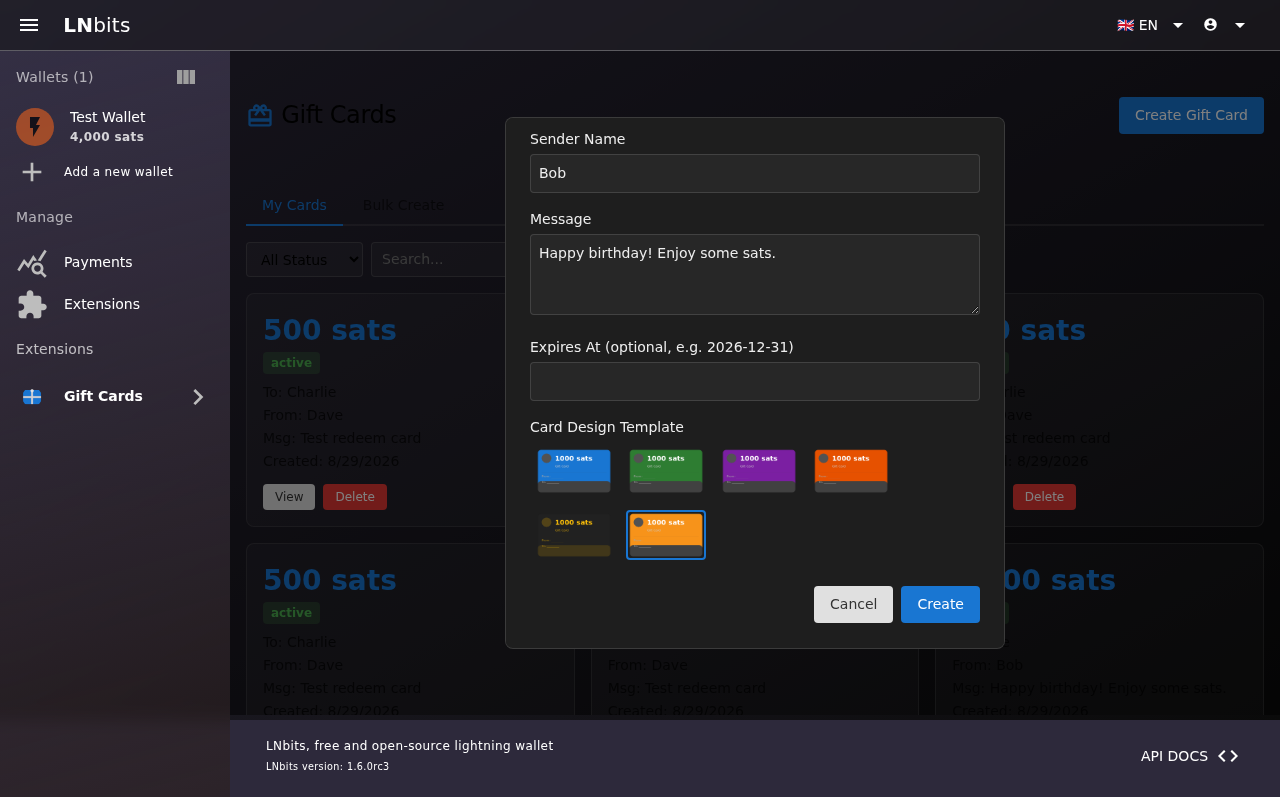
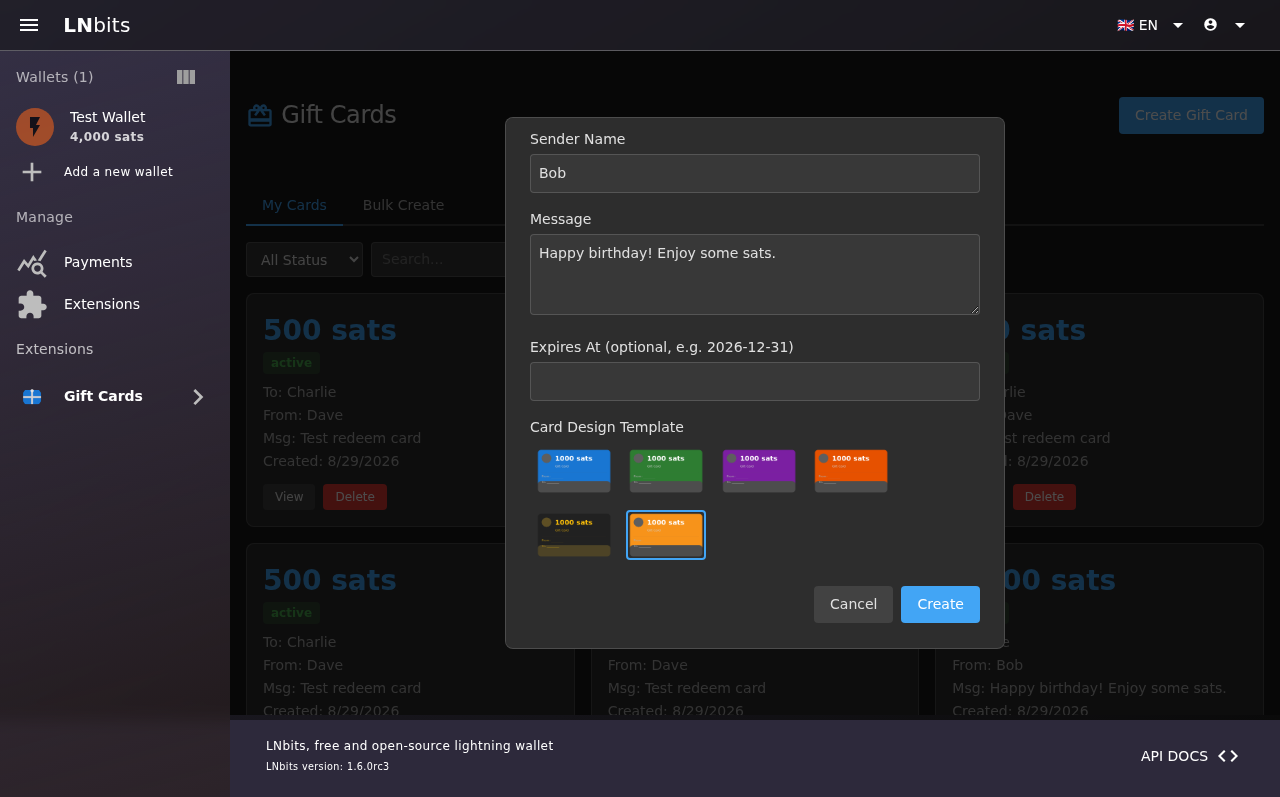
Fix dark mode text colors using CSS variables + prefers-color-scheme
The iframe is sandboxed (no allow-same-origin) so it cannot inherit
the parent LNbits page's theme. Use CSS custom properties with
@media (prefers-color-scheme: dark) to adapt text, backgrounds,
borders, and inputs to the browser's color scheme. Also set
color-scheme: light dark on body so form controls match.

Updated playwright config to run with colorScheme: 'dark' to verify
dark mode rendering. All 6 tests pass in dark mode.

Generated with [Devin](https://devin.ai)

diff --git a/static/css/index.css b/static/css/index.css
@@ -1,53 +1,79 @@
 /* Gift Cards Admin UI */
 .hidden { display: none !important; }
 * { margin: 0; padding: 0; box-sizing: border-box; }
-body { font-family: 'Roboto', sans-serif; background: transparent; color: inherit; }
+:root {
+  --gc-text: #1a1a1a;
+  --gc-text-muted: #555;
+  --gc-bg: #f5f5f5;
+  --gc-surface: #ffffff;
+  --gc-border: rgba(0,0,0,0.12);
+  --gc-input-bg: #fff;
+  --gc-overlay: rgba(0,0,0,0.5);
+  --gc-accent: #1976d2;
+  --gc-btn-bg: #e0e0e0;
+  --gc-btn-text: #333;
+}
+@media (prefers-color-scheme: dark) {
+  :root {
+    --gc-text: #e0e0e0;
+    --gc-text-muted: #aaa;
+    --gc-bg: #1a1a1a;
+    --gc-surface: #2d2d2d;
+    --gc-border: rgba(255,255,255,0.15);
+    --gc-input-bg: #383838;
+    --gc-overlay: rgba(0,0,0,0.7);
+    --gc-accent: #42a5f5;
+    --gc-btn-bg: #424242;
+    --gc-btn-text: #e0e0e0;
+  }
+}
+body { font-family: 'Roboto', sans-serif; background: var(--gc-bg); color: var(--gc-text); color-scheme: light dark; }
 .page { padding: 16px; max-width: 1200px; margin: 0 auto; }
 .header { display: flex; justify-content: space-between; align-items: center; margin-bottom: 24px; }
-.header h1 { font-size: 24px; }
-.header h1 .icon { vertical-align: middle; font-size: 28px; color: #1976d2; }
-.btn { display: inline-block; padding: 8px 16px; border: none; border-radius: 4px; cursor: pointer; font-size: 14px; background: #e0e0e0; color: #333; text-decoration: none; }
-.btn-primary { background: #1976d2; color: #fff; }
+.header h1 { font-size: 24px; color: var(--gc-text); }
+.header h1 .icon { vertical-align: middle; font-size: 28px; color: var(--gc-accent); }
+.btn { display: inline-block; padding: 8px 16px; border: none; border-radius: 4px; cursor: pointer; font-size: 14px; background: var(--gc-btn-bg); color: var(--gc-btn-text); text-decoration: none; }
+.btn-primary { background: var(--gc-accent); color: #fff; }
 .btn-danger { background: #e53935; color: #fff; }
 .btn-success { background: #4caf50; color: #fff; }
 .btn-sm { padding: 4px 12px; font-size: 12px; }
 .btn:disabled { opacity: 0.5; cursor: not-allowed; }
 .card-list { display: grid; grid-template-columns: repeat(auto-fill, minmax(320px, 1fr)); gap: 16px; }
-.gift-card { background: rgba(128,128,128,0.08); border: 1px solid rgba(128,128,128,0.2); border-radius: 8px; padding: 16px; }
-.gift-card .amount { font-size: 28px; font-weight: bold; color: #1976d2; }
+.gift-card { background: var(--gc-surface); border: 1px solid var(--gc-border); border-radius: 8px; padding: 16px; }
+.gift-card .amount { font-size: 28px; font-weight: bold; color: var(--gc-accent); }
 .gift-card .status { display: inline-block; padding: 2px 8px; border-radius: 4px; font-size: 12px; font-weight: bold; }
 .status-active { background: rgba(76,175,80,0.2); color: #4caf50; }
 .status-redeemed { background: rgba(33,150,243,0.2); color: #2196f3; }
 .status-expired { background: rgba(244,67,54,0.2); color: #f44336; }
 .status-redeeming { background: rgba(255,152,0,0.2); color: #ff9800; }
-.gift-card .meta { opacity: 0.7; font-size: 14px; margin-top: 8px; }
+.gift-card .meta { color: var(--gc-text-muted); font-size: 14px; margin-top: 8px; }
 .gift-card .meta div { margin-top: 2px; }
 .gift-card .actions { margin-top: 12px; display: flex; gap: 8px; }
-.dialog-overlay { position: fixed; top: 0; left: 0; right: 0; bottom: 0; background: rgba(0,0,0,0.5); display: flex; align-items: center; justify-content: center; z-index: 1000; }
-.dialog { background: #1e1e1e; color: #eee; border: 1px solid rgba(128,128,128,0.3); border-radius: 8px; padding: 24px; max-width: 500px; width: 90%; max-height: 80vh; overflow-y: auto; }
-.dialog h2 { margin-top: 0; margin-bottom: 16px; }
+.dialog-overlay { position: fixed; top: 0; left: 0; right: 0; bottom: 0; background: var(--gc-overlay); display: flex; align-items: center; justify-content: center; z-index: 1000; }
+.dialog { background: var(--gc-surface); color: var(--gc-text); border: 1px solid var(--gc-border); border-radius: 8px; padding: 24px; max-width: 500px; width: 90%; max-height: 80vh; overflow-y: auto; }
+.dialog h2 { margin-top: 0; margin-bottom: 16px; color: var(--gc-text); }
 .form-group { margin-bottom: 16px; }
-.form-group label { display: block; margin-bottom: 4px; font-weight: 500; }
-.form-group input, .form-group textarea, .form-group select { width: 100%; padding: 8px; border: 1px solid rgba(128,128,128,0.3); border-radius: 4px; font-size: 14px; background: rgba(128,128,128,0.1); color: inherit; }
-.form-group input:focus, .form-group textarea:focus { border-color: #1976d2; outline: none; }
+.form-group label { display: block; margin-bottom: 4px; font-weight: 500; color: var(--gc-text); }
+.form-group input, .form-group textarea, .form-group select { width: 100%; padding: 8px; border: 1px solid var(--gc-border); border-radius: 4px; font-size: 14px; background: var(--gc-input-bg); color: var(--gc-text); }
+.form-group input:focus, .form-group textarea:focus { border-color: var(--gc-accent); outline: none; }
 .dialog-actions { display: flex; gap: 8px; justify-content: flex-end; }
 .qr-container { text-align: center; margin: 16px 0; }
 .qr-container canvas { max-width: 100%; }
-.empty-state { text-align: center; padding: 48px; opacity: 0.5; }
+.empty-state { text-align: center; padding: 48px; color: var(--gc-text-muted); }
 .empty-state .material-icons { font-size: 64px; margin-bottom: 16px; }
-.tabs { display: flex; gap: 4px; margin-bottom: 16px; border-bottom: 2px solid rgba(128,128,128,0.2); }
-.tab { padding: 8px 16px; cursor: pointer; border-bottom: 2px solid transparent; margin-bottom: -2px; opacity: 0.6; }
-.tab.active { border-bottom-color: #1976d2; color: #1976d2; font-weight: 500; opacity: 1; }
+.tabs { display: flex; gap: 4px; margin-bottom: 16px; border-bottom: 2px solid var(--gc-border); }
+.tab { padding: 8px 16px; cursor: pointer; border-bottom: 2px solid transparent; margin-bottom: -2px; color: var(--gc-text-muted); }
+.tab.active { border-bottom-color: var(--gc-accent); color: var(--gc-accent); font-weight: 500; }
 .filters { display: flex; gap: 8px; margin-bottom: 16px; flex-wrap: wrap; }
-.filters select, .filters input { padding: 6px 10px; border: 1px solid rgba(128,128,128,0.3); border-radius: 4px; background: rgba(128,128,128,0.1); color: inherit; }
-.loading { text-align: center; padding: 32px; opacity: 0.5; }
+.filters select, .filters input { padding: 6px 10px; border: 1px solid var(--gc-border); border-radius: 4px; background: var(--gc-input-bg); color: var(--gc-text); }
+.loading { text-align: center; padding: 32px; color: var(--gc-text-muted); }
 .result-msg { margin-top: 16px; color: #4caf50; }
 .error-msg { margin-top: 16px; color: #f44336; }
-.detail-amount { font-size: 32px; text-align: center; color: #1976d2; font-weight: bold; margin: 16px 0; }
-.detail-meta { text-align: center; }
+.detail-amount { font-size: 32px; text-align: center; color: var(--gc-accent); font-weight: bold; margin: 16px 0; }
+.detail-meta { text-align: center; color: var(--gc-text-muted); }
 .detail-link { text-align: center; margin: 12px 0; word-break: break-all; }
-.detail-link a { color: #1976d2; }
+.detail-link a { color: var(--gc-accent); }
 .detail-actions { display: flex; gap: 8px; justify-content: center; margin-top: 16px; }
 .template-preview { display: inline-block; width: 80px; height: 50px; border-radius: 4px; cursor: pointer; border: 2px solid transparent; margin: 4px; }
-.template-preview.selected { border-color: #1976d2; }
+.template-preview.selected { border-color: var(--gc-accent); }
 

diff --git a/static/css/claim.css b/static/css/claim.css
@@ -1,19 +1,39 @@
 /* Gift Cards Claim Page */
 .hidden { display: none !important; }
 * { margin: 0; padding: 0; box-sizing: border-box; }
-body { font-family: 'Roboto', sans-serif; background: transparent; display: flex; align-items: center; justify-content: center; min-height: 100vh; color: inherit; }
-.card-container { background: rgba(128,128,128,0.08); border: 1px solid rgba(128,128,128,0.2); border-radius: 16px; padding: 32px; max-width: 500px; width: 90%; }
-.card-container h1 { color: #1976d2; text-align: center; margin-bottom: 24px; }
+:root {
+  --gc-text: #1a1a1a;
+  --gc-text-muted: #555;
+  --gc-bg: #f5f5f5;
+  --gc-surface: #ffffff;
+  --gc-border: rgba(0,0,0,0.12);
+  --gc-input-bg: #fff;
+  --gc-accent: #1976d2;
+}
+@media (prefers-color-scheme: dark) {
+  :root {
+    --gc-text: #e0e0e0;
+    --gc-text-muted: #aaa;
+    --gc-bg: #1a1a1a;
+    --gc-surface: #2d2d2d;
+    --gc-border: rgba(255,255,255,0.15);
+    --gc-input-bg: #383838;
+    --gc-accent: #42a5f5;
+  }
+}
+body { font-family: 'Roboto', sans-serif; background: var(--gc-bg); color: var(--gc-text); color-scheme: light dark; display: flex; align-items: center; justify-content: center; min-height: 100vh; }
+.card-container { background: var(--gc-surface); border: 1px solid var(--gc-border); border-radius: 16px; padding: 32px; max-width: 500px; width: 90%; }
+.card-container h1 { color: var(--gc-accent); text-align: center; margin-bottom: 24px; }
 .form-group { margin-bottom: 16px; }
-.form-group label { display: block; margin-bottom: 6px; font-weight: 500; }
-.form-group input { width: 100%; padding: 10px; border: 1px solid rgba(128,128,128,0.3); border-radius: 6px; font-size: 16px; background: rgba(128,128,128,0.1); color: inherit; }
-.form-group input:focus { border-color: #1976d2; outline: none; }
-.btn { display: block; width: 100%; padding: 12px; border: none; border-radius: 6px; cursor: pointer; font-size: 16px; background: #1976d2; color: #fff; text-decoration: none; text-align: center; }
+.form-group label { display: block; margin-bottom: 6px; font-weight: 500; color: var(--gc-text); }
+.form-group input { width: 100%; padding: 10px; border: 1px solid var(--gc-border); border-radius: 6px; font-size: 16px; background: var(--gc-input-bg); color: var(--gc-text); }
+.form-group input:focus { border-color: var(--gc-accent); outline: none; }
+.btn { display: block; width: 100%; padding: 12px; border: none; border-radius: 6px; cursor: pointer; font-size: 16px; background: var(--gc-accent); color: #fff; text-decoration: none; text-align: center; }
 .btn:disabled { opacity: 0.6; cursor: not-allowed; }
-.message { text-align: center; opacity: 0.7; margin: 16px 0; }
+.message { text-align: center; color: var(--gc-text-muted); margin: 16px 0; }
 .cards-list { margin-top: 24px; }
-.card-item { background: rgba(128,128,128,0.1); border-radius: 8px; padding: 16px; margin-bottom: 12px; display: flex; justify-content: space-between; align-items: center; }
-.card-item .amount { font-weight: bold; color: #1976d2; font-size: 20px; }
-.card-item .sender { opacity: 0.7; font-size: 14px; }
-.card-item a { color: #1976d2; text-decoration: none; }
+.card-item { background: var(--gc-bg); border: 1px solid var(--gc-border); border-radius: 8px; padding: 16px; margin-bottom: 12px; display: flex; justify-content: space-between; align-items: center; }
+.card-item .amount { font-weight: bold; color: var(--gc-accent); font-size: 20px; }
+.card-item .sender { color: var(--gc-text-muted); font-size: 14px; }
+.card-item a { color: var(--gc-accent); text-decoration: none; }
 .error { color: #f44336; text-align: center; margin: 16px 0; }

diff --git a/static/css/redeem.css b/static/css/redeem.css
@@ -1,18 +1,36 @@
 /* Gift Cards Redeem Page */
 .hidden { display: none !important; }
 * { margin: 0; padding: 0; box-sizing: border-box; }
-body { font-family: 'Roboto', sans-serif; background: transparent; display: flex; align-items: center; justify-content: center; min-height: 100vh; color: inherit; }
-.card-container { background: rgba(128,128,128,0.08); border: 1px solid rgba(128,128,128,0.2); border-radius: 16px; padding: 32px; max-width: 450px; width: 90%; text-align: center; }
-.card-container h1 { color: #1976d2; margin-bottom: 8px; }
-.amount { font-size: 48px; font-weight: bold; color: #1976d2; margin: 16px 0; }
-.sender { opacity: 0.7; font-size: 16px; margin-bottom: 4px; }
-.message { font-style: italic; margin: 16px 0; padding: 12px; background: rgba(128,128,128,0.1); border-radius: 8px; }
+:root {
+  --gc-text: #1a1a1a;
+  --gc-text-muted: #555;
+  --gc-bg: #f5f5f5;
+  --gc-surface: #ffffff;
+  --gc-border: rgba(0,0,0,0.12);
+  --gc-accent: #1976d2;
+}
+@media (prefers-color-scheme: dark) {
+  :root {
+    --gc-text: #e0e0e0;
+    --gc-text-muted: #aaa;
+    --gc-bg: #1a1a1a;
+    --gc-surface: #2d2d2d;
+    --gc-border: rgba(255,255,255,0.15);
+    --gc-accent: #42a5f5;
+  }
+}
+body { font-family: 'Roboto', sans-serif; background: var(--gc-bg); color: var(--gc-text); color-scheme: light dark; display: flex; align-items: center; justify-content: center; min-height: 100vh; }
+.card-container { background: var(--gc-surface); border: 1px solid var(--gc-border); border-radius: 16px; padding: 32px; max-width: 450px; width: 90%; text-align: center; }
+.card-container h1 { color: var(--gc-accent); margin-bottom: 8px; }
+.amount { font-size: 48px; font-weight: bold; color: var(--gc-accent); margin: 16px 0; }
+.sender { color: var(--gc-text-muted); font-size: 16px; margin-bottom: 4px; }
+.message { font-style: italic; margin: 16px 0; padding: 12px; background: var(--gc-bg); border-radius: 8px; }
 .status-badge { display: inline-block; padding: 6px 16px; border-radius: 20px; font-weight: bold; margin: 8px 0; }
 .status-active { background: rgba(76,175,80,0.2); color: #4caf50; }
 .status-redeemed { background: rgba(33,150,243,0.2); color: #2196f3; }
 .status-expired { background: rgba(244,67,54,0.2); color: #f44336; }
 .qr-container { margin: 24px 0; }
 .qr-container canvas { max-width: 100%; }
-.instructions { opacity: 0.7; font-size: 14px; margin-top: 16px; }
+.instructions { color: var(--gc-text-muted); font-size: 14px; margin-top: 16px; }
 .error { color: #f44336; font-size: 18px; margin: 16px 0; }
-.loading { opacity: 0.5; }
+.loading { color: var(--gc-text-muted); }

diff --git a/playwright.config.js b/playwright.config.js
@@ -7,6 +7,7 @@ module.exports = {
     headless: true,
     screenshot: 'only-on-failure',
     viewport: { width: 1280, height: 720 },
+    colorScheme: 'dark',
   },
   projects: [
     {
